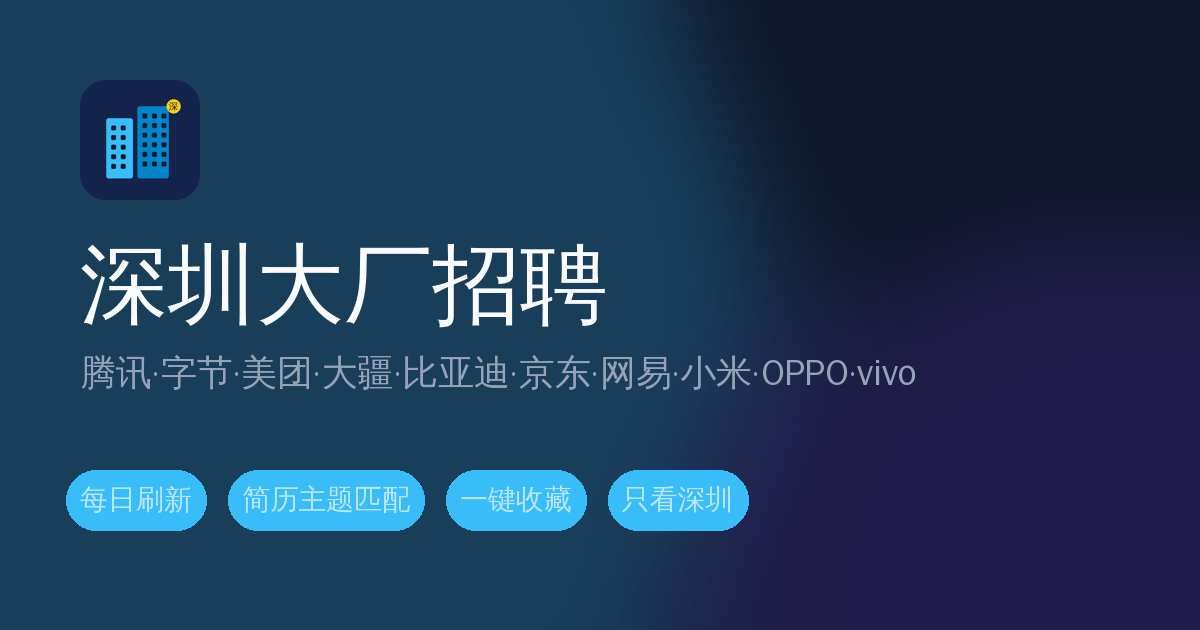
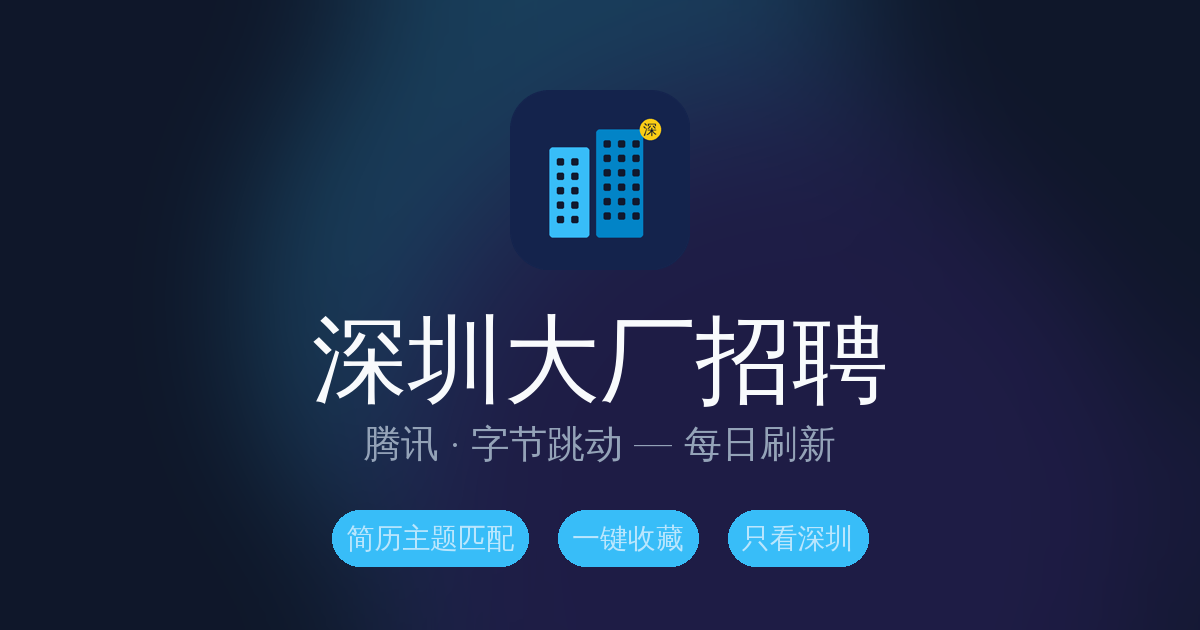
Fix WeChat share preview: centered cover + shorter description
WeChat crops the OG image to a square thumbnail in the share card.
The previous cover had the wordmark at the bottom-left and the icon
small in the top-left, so the centered crop showed mostly empty
gradient. The new layout centers the icon at top + 深圳大厂招聘
wordmark below, so any reasonable square crop shows the brand.

Also shrinks the share copy to only the currently-working companies:
- og:title         → "深圳大厂招聘"
- og:description   → "腾讯 · 字节跳动 — 每日刷新"
- page <title>     → "深圳大厂招聘 · 腾讯 · 字节跳动"
- page subtitle    → "腾讯 · 字节跳动 — 每日自动刷新"

Bumps og:image URL to ?v=2 so WeChat's aggressive share-card cache
fetches the new image instead of the old one.

Also drops a 1080×1080 jobs-cover-square.png next to the existing
1200×630 cover for any future tooling that prefers a real square.

diff --git a/jobs.html b/jobs.html
@@ -4,16 +4,16 @@
 <meta charset="UTF-8">
 <meta name="viewport" content="width=device-width, initial-scale=1.0">
 <meta http-equiv="Cache-Control" content="no-cache, no-store, must-revalidate">
-<title>深圳大厂招聘 · 腾讯·字节·美团·大疆·京东·网易·小米·OPPO·vivo</title>
-<meta name="description" content="深圳大厂在招职位聚合 — 腾讯、字节跳动、美团、大疆、比亚迪、京东、网易、小米、OPPO、vivo，每日自动刷新，简历主题匹配，一键收藏。">
-<meta name="keywords" content="深圳招聘,腾讯招聘,字节跳动招聘,美团招聘,大疆招聘,比亚迪招聘,京东招聘,网易招聘,小米招聘,OPPO招聘,vivo招聘,深圳大厂,社招">
+<title>深圳大厂招聘 · 腾讯 · 字节跳动</title>
+<meta name="description" content="腾讯、字节跳动 深圳社招职位聚合，每日自动刷新。">
+<meta name="keywords" content="深圳招聘,腾讯招聘,字节跳动招聘,深圳大厂,社招">
 
 <!-- Open Graph (微信 / Facebook / LinkedIn) -->
 <meta property="og:type" content="website">
-<meta property="og:title" content="深圳大厂招聘 · 每日自动更新">
-<meta property="og:description" content="腾讯·字节·美团·大疆·比亚迪·京东·网易·小米·OPPO·vivo 深圳社招职位聚合，每日刷新，按简历主题匹配，一键收藏。">
+<meta property="og:title" content="深圳大厂招聘">
+<meta property="og:description" content="腾讯 · 字节跳动 — 每日刷新">
 <meta property="og:url" content="https://chenruoyi0202-ship-it.github.io/cry/jobs.html">
-<meta property="og:image" content="https://chenruoyi0202-ship-it.github.io/cry/jobs-cover.png">
+<meta property="og:image" content="https://chenruoyi0202-ship-it.github.io/cry/jobs-cover.png?v=2">
 <meta property="og:image:width" content="1200">
 <meta property="og:image:height" content="630">
 <meta property="og:site_name" content="深圳大厂招聘">
@@ -21,9 +21,9 @@
 
 <!-- Twitter / X -->
 <meta name="twitter:card" content="summary_large_image">
-<meta name="twitter:title" content="深圳大厂招聘 · 每日自动更新">
-<meta name="twitter:description" content="腾讯·字节·美团·大疆·比亚迪·京东·网易·小米·OPPO·vivo 深圳社招聚合，简历主题匹配，一键收藏。">
-<meta name="twitter:image" content="https://chenruoyi0202-ship-it.github.io/cry/jobs-cover.png">
+<meta name="twitter:title" content="深圳大厂招聘">
+<meta name="twitter:description" content="腾讯 · 字节跳动 — 每日刷新">
+<meta name="twitter:image" content="https://chenruoyi0202-ship-it.github.io/cry/jobs-cover.png?v=2">
 
 <!-- Favicons + PWA -->
 <link rel="icon" type="image/svg+xml" href="jobs-icon.svg">
@@ -461,7 +461,7 @@ body{
   <header class="header">
     <span class="header-icon">🏢</span>
     <h1>深圳大厂招聘</h1>
-    <p class="subtitle">腾讯·字节·大疆·比亚迪·京东·网易·小米·OPPO·vivo — 公开 API 聚合，每日自动刷新</p>
+    <p class="subtitle">腾讯 · 字节跳动 — 每日自动刷新</p>
     <div class="meta" id="meta">
       <span id="metaUpdated">加载中…</span>
       <span class="dot">·</span>
